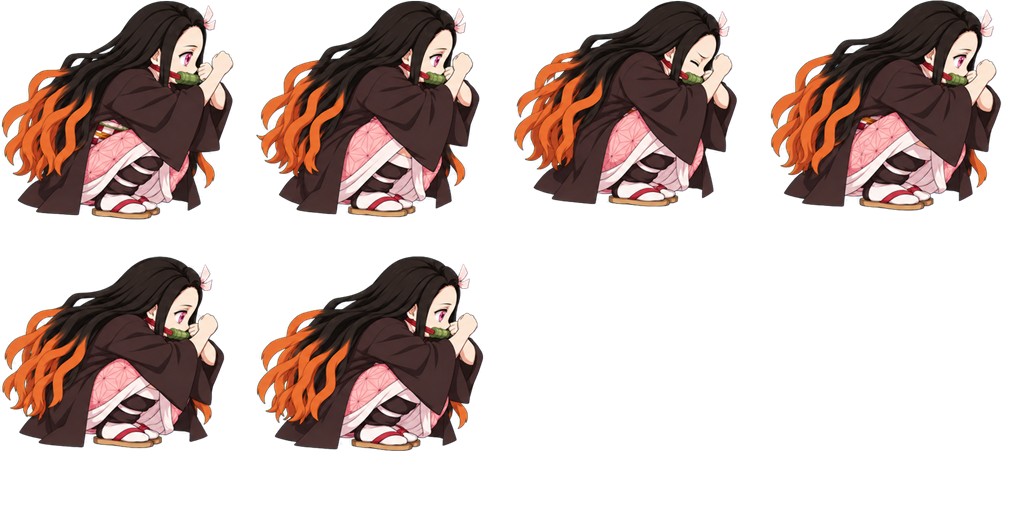
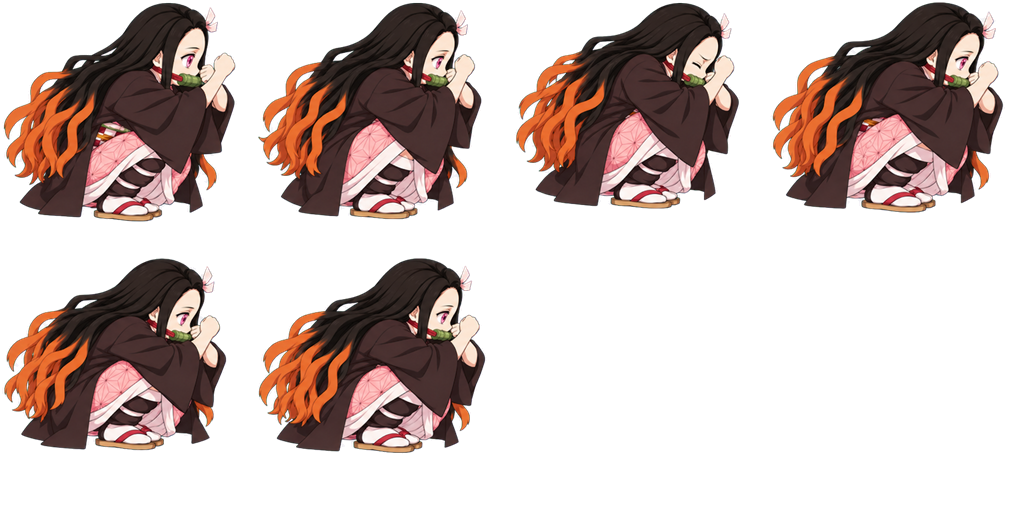
fix: preserve atlas gutters for redrawn Nezuko crouch guard

diff --git a/tests/uppercut_art_tests.py b/tests/uppercut_art_tests.py
@@ -29,13 +29,28 @@ class UppercutArtTests(unittest.TestCase):
     self.assertLess(ratio,1.04,(clip,index,ratio))
     self.assertLessEqual(abs(bounds[3]-self.atlas.data['feet_anchor'][1]),1)
  def test_crouch_guard_keeps_head_scale_and_foot_contact(self):
-  reference=face_span(self.atlas.frame('idle',0))
-  # Other drawings join the guarding hand to the face's skin-color component;
-  # use the four frames with an independently exposed face as an anatomy ruler.
-  for index in [1,3,4,5]:
-   ratio=face_span(self.atlas.frame('guard_low',index))/reference
-   self.assertGreater(ratio,.90,(index,ratio))
-   self.assertLess(ratio,1.06,(index,ratio))
+  import json,hashlib
+  from PIL import Image
+  # The approved redraw covers the face with fists in some frames. Skin-color
+  # components no longer measure its head; enforce the reviewed pixel scale
+  # and registered drawings directly instead of measuring a visible hand.
+  folder=ROOT/'output/imagegen/normal-guard-redraw-v3'
+  registration=json.loads((folder/'import.json').read_text(encoding='utf-8-sig'))
+  self.assertEqual(registration['shared_scale'],0.5)
+  self.assertEqual(hashlib.sha256((ROOT/registration['source']).read_bytes()).hexdigest(),registration['source_sha256'])
+  self.assertEqual(len(registration['frames']),6)
+  for index,record in enumerate(registration['frames']):
+   entry=self.atlas.data['clips']['guard_low']['frames'][index]
+   self.assertEqual(entry['offset'],record['offset'])
+   self.assertEqual(entry['region'][2:],record['size'])
+   self.assertGreater(entry['region'][3]/record['original_size'][1],.90)
+   self.assertLess(entry['region'][3]/record['original_size'][1],1.10)
+   approved=folder/'frames'/f'{index}.png'
+   self.assertEqual(hashlib.sha256(approved.read_bytes()).hexdigest(),record['sha256'])
+   with Image.open(approved) as frame:
+    actual=self.atlas.frame('guard_low',index)
+    ox,oy=entry['offset'];w,h=entry['region'][2:]
+    self.assertEqual(actual.crop((ox,oy,ox+w,oy+h)).tobytes(),frame.convert('RGBA').tobytes())
   for index in range(6):
    bounds=self.atlas.frame('guard_low',index).getbbox()
    self.assertLessEqual(abs(bounds[3]-self.atlas.data['feet_anchor'][1]),1)

diff --git a/tools/import_nezuko_guard_redraw.py b/tools/import_nezuko_guard_redraw.py
@@ -25,7 +25,7 @@ def main():
   a=np.array(frame);a[a[:,:,3]<8]=0;frame=Image.fromarray(a);bbox=frame.getbbox();assert bbox
   frame=match_colors(frame.crop(bbox))
   offset=[old['offset'][0]+bbox[0]-12,old['offset'][1]+old['region'][3]-frame.height]
-  x=i%4*256;y=i//4*256;assert frame.width<=256 and frame.height<=256
+  x=i%4*256+2;y=i//4*256+2;assert frame.width<=252 and frame.height<=252
   page.paste(frame,(x,y));entries.append(dict(texture='guard-low-redraw.png',region=[x,y,*frame.size],offset=offset))
   (OUT/'frames').mkdir(exist_ok=True);frame.save(OUT/'frames'/f'{i}.png')
   records.append(dict(frame=i,source_cell=[i%3*512,i//3*512,512,512],scale=0.5,bounds=list(bbox),size=list(frame.size),offset=offset,feet_y=offset[1]+frame.height,original_size=old['region'][2:],original_feet_y=old['offset'][1]+old['region'][3],height_ratio=frame.height/old['region'][3],width_ratio=frame.width/old['region'][2],sha256=sha(OUT/'frames'/f'{i}.png')))
